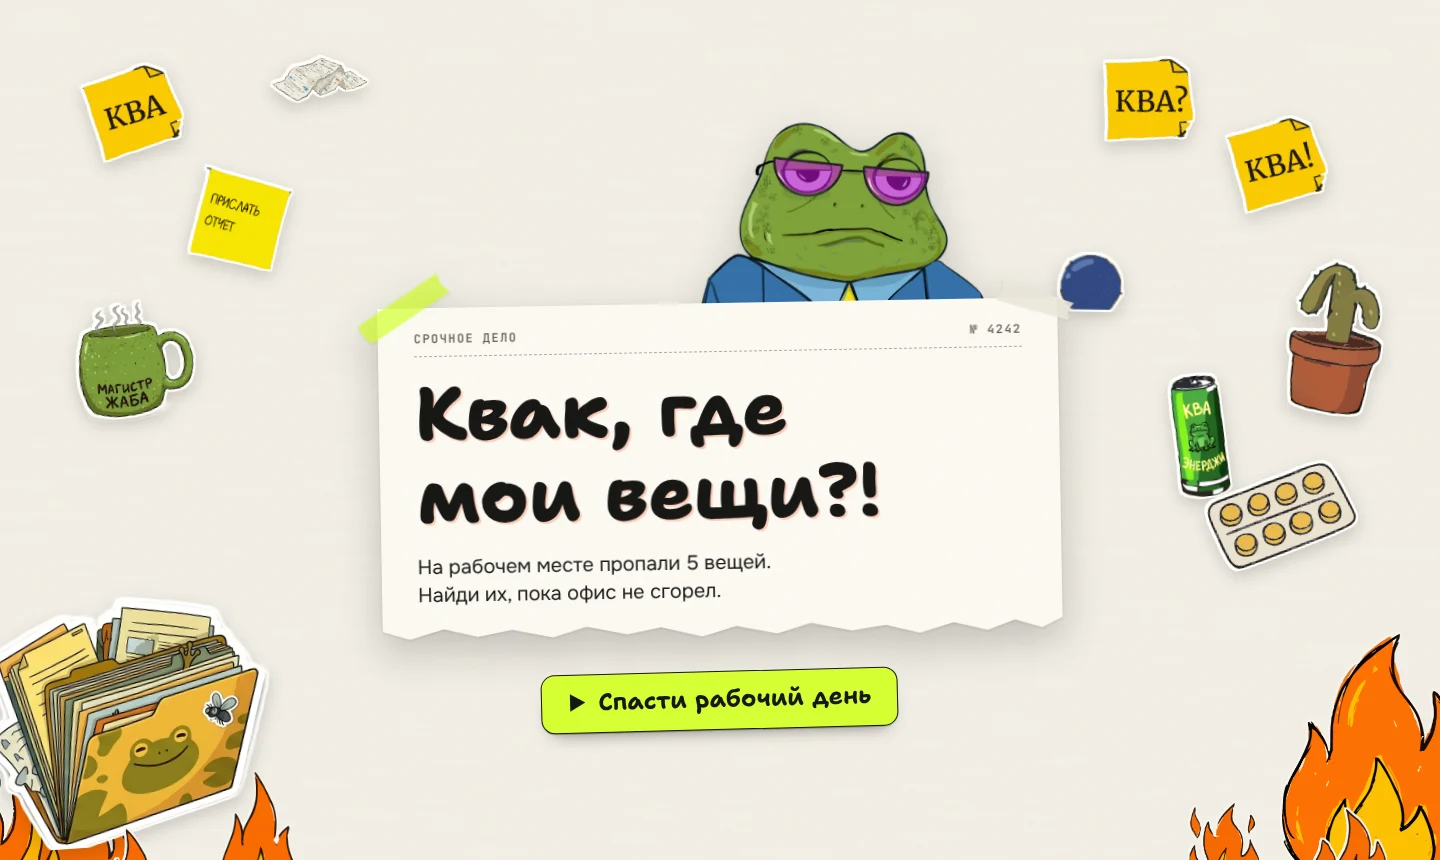
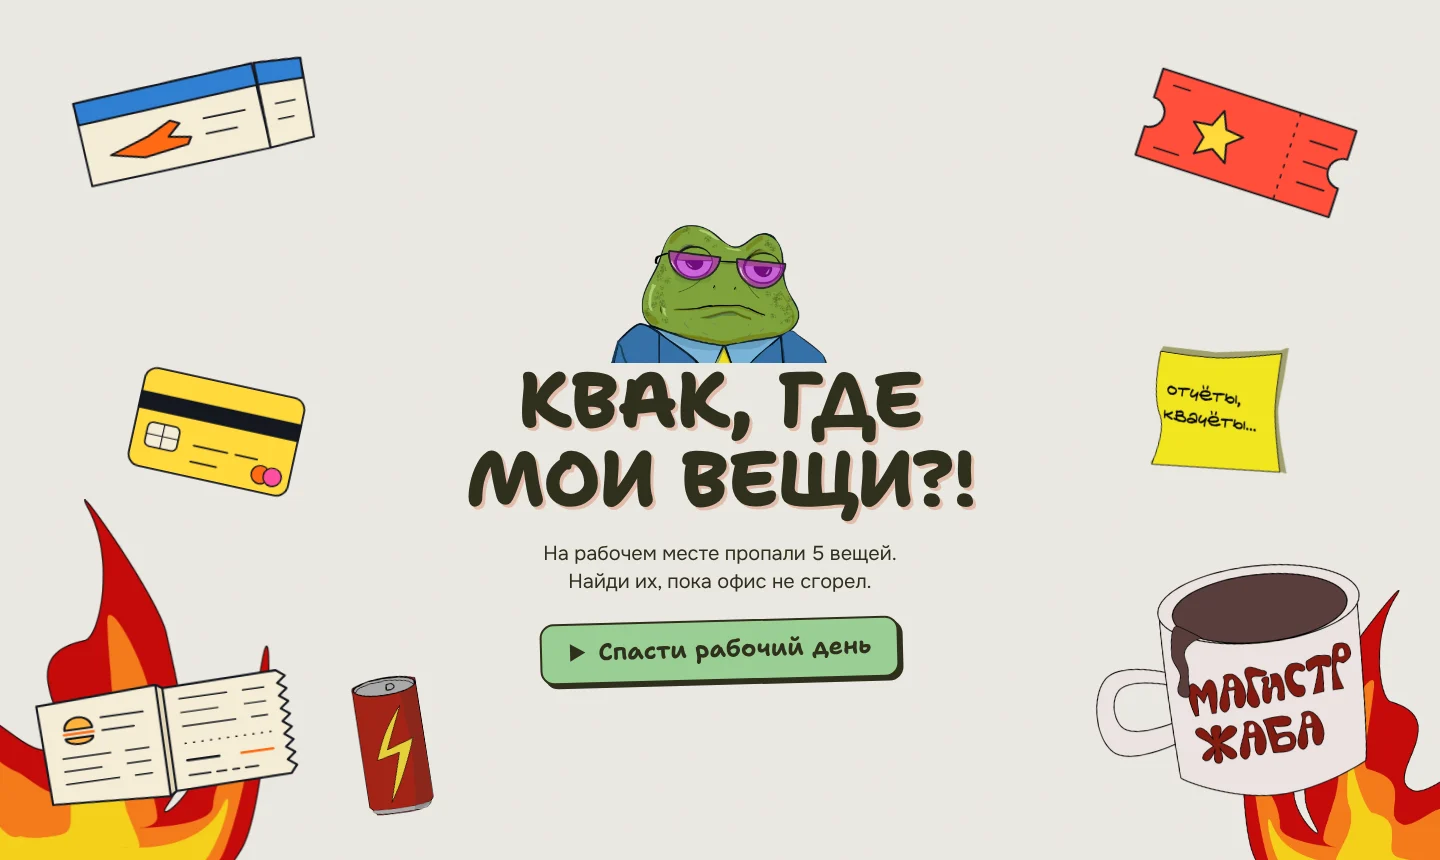
commit: change covers from kvak, add fire

diff --git a/data/projects.js b/data/projects.js
@@ -152,8 +152,8 @@ window.LEYLA_PROJECTS = [
     file: 'QUIZ1703.EXE',
     title: 'Orchestra 1703: кто ты из мира музыки?',
     tagline: 'Интерактивный тест для Orchestra 1703: знакомит с оркестром и зовёт на концерты',
-    type: 'special',
-    stage: { key: 'done', label: 'По заказу оркестра' },
+    type: 'client',
+    stage: { key: 'done', label: 'Можно поиграть' },
     role: 'Дизайн, UX и фронтенд',
     tools: ['HTML', 'CSS', 'JavaScript', 'React'],
     summary: 'Тест для петербургского оркестра, чтобы звать людей на концерты. Семь жизненных вопросов — в финале композитор-архетип, по дороге треки под настроение, в конце осенний совет послушать и афиша.',
@@ -322,8 +322,8 @@ window.LEYLA_PROJECTS = [
     file: 'SIMULATOR_TRAIN.EXE',
     title: 'Симулятор худшего соседа',
     tagline: 'Пиксельная драма в пригородной электричке в духе игр нулевых для PlayStation',
-    type: 'personal',
-    stage: { key: 'done', label: 'Завершен' },
+    type: 'concept',
+    stage: { key: 'done', label: 'Можно поиграть' },
     role: 'Автор проекта: идея, визуальное направление, моушн в After Effects',
     tools: ['After Effects', 'React', 'Vite', 'Pixel art'],
     summary: '«Сохрани менталку. Не доводи Бабу Зину.» Это игра про поездку в пригородной электричке, где бытовые сценки вроде споров из-за форточки, курицы в фольге и громких динамиков доведены до абсурда. За прохождением следят шкалы менталки и ярости, от которых зависит, доедешь ли ты до конечной. Анимацию самой поездки я собирала в After Effects',

diff --git a/css/theme.css b/css/theme.css
@@ -9,6 +9,7 @@
 /* Main pixel face: Bit Cell by memesbruh03 (dafont, "100% free") — dot-matrix of 2000s phones, full Cyrillic.
    size-adjust lines its cap height up with the previous Tiny5, so no font-size had to change.
    To go back to Tiny5: remove "Bit Cell" from --f-pixel below. */
+@font-face { font-family: "Zekton"; font-display: swap; src: url("../assets/fonts/zekton-rg.woff2") format("woff2"); }
 @font-face { font-family: "Ura Bum Bum SP"; font-display: swap; src: url("../assets/fonts/ura-bum-bum-sp.woff2") format("woff2"); }
 @font-face { font-family: "Bit Cell"; font-display: swap; size-adjust: 143%; src: url("../assets/fonts/bitcell.woff2") format("woff2"); }
 @font-face { font-family: "Tiny5"; font-display: swap; src: url("../assets/fonts/tiny5-cyrillic-400-normal.woff2") format("woff2"); unicode-range: U+0301, U+0400-045F, U+0490-0491, U+04B0-04B1, U+2116; }
@@ -80,7 +81,7 @@
   /* type */
   --f-pixel: "Bit Cell", "Tiny5", "Silkscreen", ui-monospace, "Courier New", monospace;
   --f-brand: "Silkscreen", "Tiny5", ui-monospace, monospace;
-  --f-status: "Ura Bum Bum SP", "Pixelify Sans", "Tiny5", ui-monospace, monospace;
+  --f-status: "Zekton", "Pixelify Sans", "Tiny5", ui-monospace, monospace;
   --f-ui: Tahoma, Verdana, "Segoe UI", "PT Sans", system-ui, sans-serif;
   --f-cursive: "Fiolex Girls", "Monotype Corsiva", "Marck Script", "Apple Chancery", cursive;
   --f-comic: "Comic Sans MS", "Comic Sans", "Chalkboard SE", "Comic Neue", var(--f-ui);

diff --git a/play/kvak/css/style.css b/play/kvak/css/style.css
@@ -1115,3 +1115,12 @@ h1,h2,h3{font-family:var(--font-display);font-weight:700;letter-spacing:-.01em;l
 .ci-sticker{--r:7deg;--t:6.6s;--d:-5s;right:10vw;top:40vh;width:clamp(110px,10vw,170px)}
 .ci-can{--r:-10deg;--t:7.8s;--d:-2.5s;left:25vw;bottom:5vh;width:clamp(50px,4.6vw,80px)}
 @media (max-width:860px){.ci-sticker,.ci-can{display:none}}
+
+/* огонь на обложке: рисунок Лейлы, по нижним углам, мягко качается */
+.cover-fire{position:absolute;inset:0;z-index:0;pointer-events:none;overflow:hidden}
+.cf{position:absolute;bottom:-9vh;height:auto;transform-origin:50% 100%;animation:cf-sway 2.6s ease-in-out infinite}
+.cf-l{left:-5vw;width:clamp(200px,24vw,380px)}
+.cf-r{right:-4vw;width:clamp(170px,19vw,300px);scale:-1 1;animation-duration:3.1s;animation-delay:-1.2s}
+@keyframes cf-sway{0%,100%{rotate:-2.5deg;transform:scaleY(1)}50%{rotate:2.5deg;transform:scaleY(1.05)}}
+@media (max-width:860px){.cf-l{width:42vw;bottom:-6vh}.cf-r{width:34vw;bottom:-6vh}}
+@media (prefers-reduced-motion:reduce){.cf{animation:none}}

diff --git a/app.js b/app.js
@@ -352,11 +352,8 @@
   /* ---------- 7. Projects archive (data: data/projects.js) ---------- */
   const FILTERS = [
     { id: 'all', label: 'Все', test: () => true },
-    { id: 'special', label: 'Спецпроекты', test: p => p.type === 'special' },
     { id: 'client', label: 'Клиентские', test: p => p.type === 'client' },
-    { id: 'personal', label: 'Личные', test: p => p.type === 'personal' },
-    { id: 'concept', label: 'Концепты', test: p => p.type === 'concept' },
-    { id: 'wip', label: 'В работе', test: p => !!p.stage && ['wip', 'moodboard'].includes(p.stage.key) },
+    { id: 'concept', label: 'Концепты', test: p => p.type !== 'client' },
   ];
   let projFilter = 'all';
   const caseUrl = p => `work/${p.slug}.html`;

diff --git a/work/orchestra-1703.html b/work/orchestra-1703.html
@@ -52,8 +52,7 @@
           <p class="eyebrow">№ 003 · QUIZ1703.EXE</p>
           <h1>Orchestra 1703: кто ты из мира музыки?</h1>
           <p class="tagline">Интерактивный тест на заказ Orchestra 1703</p>
-          <div class="badges"><span class="badge t-special">Спецпроект</span><span class="badge s-done">По заказу
-              оркестра</span></div>
+          <div class="badges"><span class="badge t-client">Клиентский проект</span><span class="badge s-done">Можно поиграть</span></div>
           <dl class="facts">
             <div>
               <dt>Роль</dt>

diff --git a/work/pixel-train.html b/work/pixel-train.html
@@ -49,8 +49,8 @@
         <div class="hero-text">
           <h1>Симулятор худшего соседа</h1>
           <p class="tagline">Пиксельная игра про электричку — в духе нулевых на PlayStation</p>
-          <div class="badges"><span class="badge t-personal">Личный проект</span><span
-              class="badge s-done">Завершен</span></div>
+          <div class="badges"><span class="badge t-concept">Концепт</span><span
+              class="badge s-done">Можно поиграть</span></div>
           <dl class="facts">
             <div>
               <dt>Роль</dt>

diff --git a/play/kvak/index.html b/play/kvak/index.html
@@ -37,6 +37,10 @@
       </div>
 
       <!-- Обложка v2 (как у MAAG): вещи Квака разложены по краям, заголовок и кнопка по центру -->
+      <div class="cover-fire" aria-hidden="true">
+        <img class="cf cf-l" src="assets/decor/fire-cover.webp" alt="">
+        <img class="cf cf-r" src="assets/decor/fire-cover.webp" alt="">
+      </div>
       <div class="cover-items" aria-hidden="true">
         <img class="ci ci-avia" src="assets/props/ticket-avia.svg" alt="">
         <img class="ci ci-card" src="assets/props/card-bank.svg" alt="">
